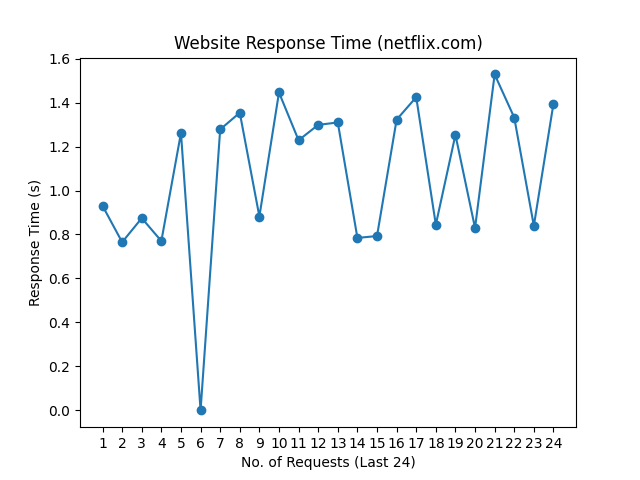
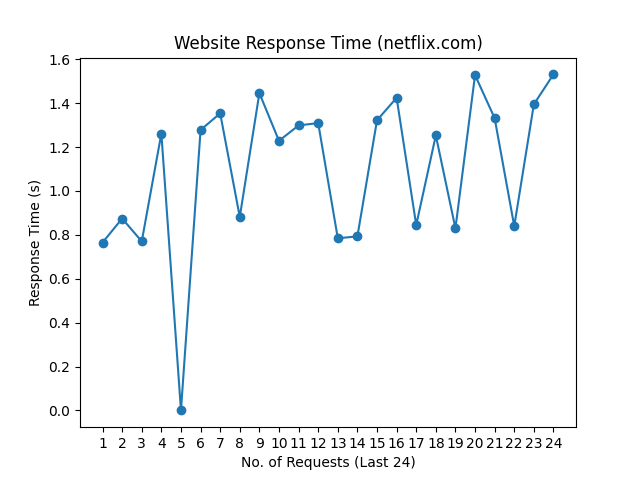
update README.md, history and graph

Changed region(s): [[0.1562, 0.125, 0.875, 0.875], [0.0938, 0.2812, 0.125, 0.3125], [0.0938, 0.0938, 0.125, 0.125]]

diff --git a/README.md b/README.md
@@ -1,10 +1,10 @@
 # Web Monitoring
 
-Last Checked: 24/12/2024 08:20
+Last Checked: 25/12/2024 08:20
 
 | Website | Response Time (s) | Status | Avg Uptime (%) |
 |---------|-------------------|--------|----------------|
 | www.thiswebsiteisdown.net | 0 <br> <img src="graph/thiswebsiteisdown.net.png" alt="Graph" width="200" height="200">  | ❌ Down | 0.00 |
-| www.netflix.com | 1.394732 <br> <img src="graph/netflix.com.png" alt="Graph" width="200" height="200">  | ✅ Up | 99.80 |
-| www.google.com | 0.084075 <br> <img src="graph/google.com.png" alt="Graph" width="200" height="200">  | ✅ Up | 100.00 |
-| www.facebook.com | 0.550984 <br> <img src="graph/facebook.com.png" alt="Graph" width="200" height="200">  | ✅ Up | 100.00 |
+| www.netflix.com | 1.531174 <br> <img src="graph/netflix.com.png" alt="Graph" width="200" height="200">  | ✅ Up | 99.80 |
+| www.google.com | 0.078742 <br> <img src="graph/google.com.png" alt="Graph" width="200" height="200">  | ✅ Up | 100.00 |
+| www.facebook.com | 0.954383 <br> <img src="graph/facebook.com.png" alt="Graph" width="200" height="200">  | ✅ Up | 100.00 |
